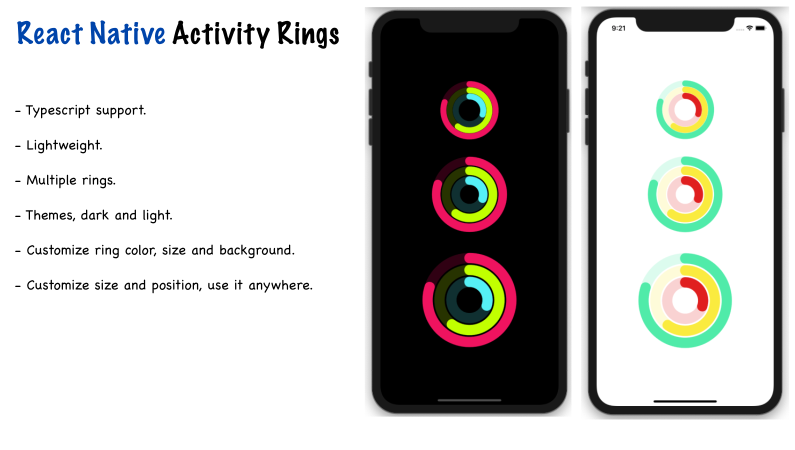
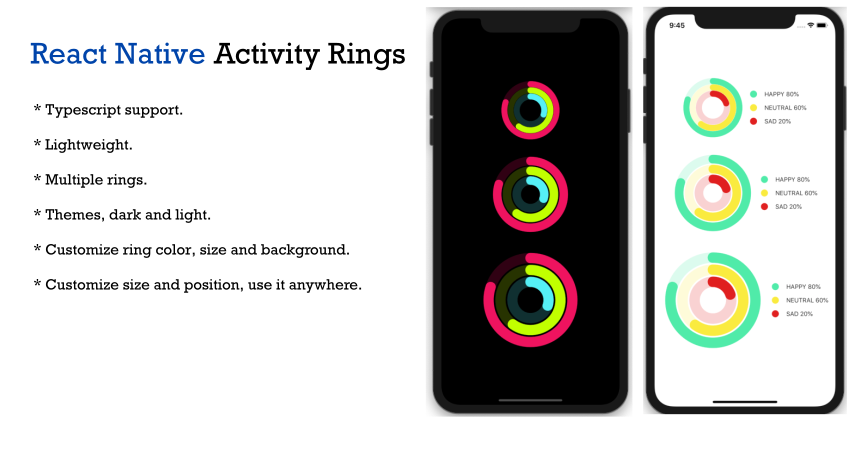
legend support

diff --git a/src/ActivityRings.tsx b/src/ActivityRings.tsx
@@ -1,38 +1,10 @@
 import * as React from "react";
-import { View } from "react-native";
+import {StyleSheet, View} from "react-native";
 import { Svg, G, Path } from "react-native-svg";
+import {Theme, THEMES} from "./Themes";
+import ActivityLegend from "./ActivityRingsLegend";
 
 const Pie = require("paths-js/pie");
-
-enum Colors {
-    White = "#ffffff",
-    Gray = "#323232",
-    // Light Theme
-    Green = "#50eba9",
-    Red = "#E02020",
-    Canary = "#FAEB3F",
-    // Dark Theme
-    Move = "#54f0f7",
-    Exercise = "#c1ff00",
-    Stand = "#ef135f"
-}
-type Theme = "dark" | "light";
-
-interface ThemeColors {
-    LegendColor: string;
-    RingColors: string[];
-}
-
-const THEMES: { dark: ThemeColors, light: ThemeColors } = {
-    dark: {
-        LegendColor: Colors.White,
-        RingColors: [Colors.Move, Colors.Exercise, Colors.Stand]
-    },
-    light: {
-        LegendColor: Colors.Gray,
-        RingColors: [Colors.Red, Colors.Canary, Colors.Green]
-    }
-}
 
 type Pie = { // pie-js does not support TS
     curves: any[];
@@ -40,6 +12,7 @@ type Pie = { // pie-js does not support TS
 
 export type ActivityRingData = {
     value: number;
+    label?: string;
     color?: string;
     backgroundColor?: string;
 }
@@ -53,9 +26,10 @@ export type ActivityRingsConfig = {
 
 
 interface ActivityRingsProps {
-  data: ActivityRingData[];
-  config: ActivityRingsConfig;
-  theme?: Theme;
+    data: ActivityRingData[];
+    config: ActivityRingsConfig;
+    legend?: boolean;
+    theme?: Theme;
 }
 
 const ActivityRingsBase = (props: ActivityRingsProps) => {
@@ -69,7 +43,7 @@ const ActivityRingsBase = (props: ActivityRingsProps) => {
     const createRings = (data: ActivityRingData[], height: number, rad: number, fill?: number[]) => {
         return data.map((ring: ActivityRingData, idx: number) => {
             const pieData = fill || [ring.value, 1 - ring.value];
-            const r = ((height / 2 - rad) / data.length) * idx + rad;
+            const r = ((height / 2 - rad) / data.length) * (data.length - idx - 1) + rad;
             return Pie({
                 r,
                 R: r,
@@ -80,52 +54,68 @@ const ActivityRingsBase = (props: ActivityRingsProps) => {
         });
     };
 
-    const RingsDrawer = (props: { rings: Pie[], alpha: string }) => (
-        <G>
-            {props.rings.map((ring: Pie, idx: number) => {
-                const dataObj = data[idx];
-                if (dataObj.value > 0 && dataObj.value <= 1) {
-                    return (
-                        <Path
-                            key={`r_${idx}`}
-                            strokeLinecap="round"
-                            strokeLinejoin="round"
-                            d={ring.curves[0].sector.path.print()}
-                            stroke={`${dataObj.color || selectedTheme.RingColors[idx]}${props.alpha}`}
-                            strokeWidth={config.ringSize}
-                        />
-                    );
-                }
-            })}
-        </G>
-    );
+    const Rings = (props: { data: Pie[], opacity: boolean }) => {
+        const alpha = props.opacity ? "33" : "FF";
+        const rings = props.data;
+        return (
+            <G>
+                {rings.map((ring: Pie, idx: number) => {
+                    const dataObj = data[idx];
+                    const color = props.opacity ? dataObj.backgroundColor : dataObj.color;
+                    const ringColor = color || selectedTheme.RingColors[idx];
+                    if (dataObj.value > 0 && dataObj.value <= 1) {
+                        return (
+                            <Path
+                                key={`r_${idx}`}
+                                strokeLinecap="round"
+                                strokeLinejoin="round"
+                                d={ring.curves[0].sector.path.print()}
+                                stroke={`${ringColor}${alpha}`}
+                                strokeWidth={config.ringSize}
+                            />
+                        );
+                    }
+                })}
+            </G>);
+    };
 
-    const frontRings = createRings(data, config.height, config.radius);
     const backRings = createRings(data,  config.height, config.radius,[0.999, 0.001]);
+    const frontRings = createRings(data, config.height, config.radius);
 
     return (
-      <View style={containerStyle}>
-        <Svg width={config.width} height={config.height}>
-          <G x={config.width / 2} y={config.height / 2}>
-              <RingsDrawer rings={frontRings} alpha={"FF"} />
-              <RingsDrawer rings={backRings} alpha={"33"} />
-          </G>
-        </Svg>
-      </View>
+        <View style={styles.container}>
+            <View style={containerStyle}>
+                <Svg width={config.width} height={config.height}>
+                    <G x={config.width / 2} y={config.height / 2}>
+                        <Rings data={backRings} opacity={true} />
+                        <Rings data={frontRings} opacity={false} />
+                    </G>
+                </Svg>
+            </View>
+            {props.legend && <ActivityLegend data={props.data} theme={theme} />}
+        </View>
     );
 }
 
 ActivityRingsBase.defaultProps = {
-  data: [],
-  theme: "dark",
-  config: {
-    ringSize: 14,
-    radius: 32,
-    width: 150,
-    height: 150
-  }
+    data: [],
+    theme: "dark",
+    legend: false,
+    config: {
+        ringSize: 14,
+        radius: 32,
+        width: 150,
+        height: 150
+    }
 };
 
-const ActivityRings = React.memo(ActivityRingsBase);
+const styles = StyleSheet.create({
+    container: {
+        flexDirection: "row",
+        alignItems: "center",
+        justifyContent: "center"
+    }
+});
 
+const ActivityRings = React.memo(ActivityRingsBase);
 export default ActivityRings;

diff --git a/src/ActivityRingsLegend.tsx b/src/ActivityRingsLegend.tsx
@@ -1,0 +1,52 @@
+import * as React from "react";
+import { StyleSheet, Text, View } from 'react-native';
+import {Theme, THEMES} from "./Themes";
+import {ActivityRingData} from "./ActivityRings";
+
+interface ActivityLegendsProps {
+    data: ActivityRingData[];
+    theme?: Theme;
+}
+
+const ActivityLegendBase = (props: ActivityLegendsProps) => {
+    const {data, theme} = props;
+    const selectedTheme = THEMES[theme || "dark"];
+    const textStyle = {...styles.text, color: selectedTheme.LegendColor };
+    return (
+        <View style={styles.container}>
+            {data.map((ring: ActivityRingData, idx: number) => {
+                const bulletColor = ring.color || selectedTheme.RingColors[idx];
+                const bulletStyle = {...styles.bullets, backgroundColor: bulletColor};
+                return (
+                    <View style={styles.row} key={`l_${idx}`}>
+                        <View style={bulletStyle}></View>
+                        <Text style={textStyle}>{ring.label} {ring.value * 100}%</Text>
+                    </View>
+                )
+            })}
+        </View>
+    );
+}
+
+const styles = StyleSheet.create({
+    container: {
+        marginLeft: 10
+    },
+    row: {
+        display: "flex",
+        flexDirection: "row",
+        alignItems: "center",
+    },
+    bullets: {
+        width: 16,
+        height: 16,
+        borderRadius: 8,
+        marginRight: 10
+    },
+    text: {
+        padding: 7
+    }
+});
+
+const ActivityLegend = React.memo(ActivityLegendBase);
+export default ActivityLegend;

diff --git a/src/Themes.ts b/src/Themes.ts
@@ -1,0 +1,29 @@
+export enum Colors {
+    White = "#ffffff",
+    Gray = "#323232",
+    // Light Theme
+    Green = "#50eba9",
+    Red = "#E02020",
+    Canary = "#FAEB3F",
+    // Dark Theme
+    Move = "#54f0f7",
+    Exercise = "#c1ff00",
+    Stand = "#ef135f"
+}
+export type Theme = "dark" | "light";
+
+export interface ThemeColors {
+    LegendColor: string;
+    RingColors: string[];
+}
+
+export const THEMES: { dark: ThemeColors, light: ThemeColors } = {
+    dark: {
+        LegendColor: Colors.White,
+        RingColors: [Colors.Stand, Colors.Exercise, Colors.Move]
+    },
+    light: {
+        LegendColor: Colors.Gray,
+        RingColors: [Colors.Green, Colors.Canary, Colors.Red]
+    }
+}

diff --git a/README.md b/README.md
@@ -3,7 +3,7 @@
 
 ***Activity Rings is also the perfect Progress Chart for your project.***
 
-This library provides Ring visualization of data and can be used alongside with the ActivityRingsLegend component for chart representation.
+This library provides Ring visualization of data, and you can also enable legends for chart representation.
 
 ---  
 
@@ -48,14 +48,16 @@ Define an array of objects with the data for each ring:
 ```typescript
 const activityData: ActivityRingData[] = [
   {
-    value: 0.3, // ring will use color from theme
+    value: 0.8, // ring will use color from theme
   },
   {
+    label: "ACTIVITY",
     value: 0.6,
     color: "#cb5f18",
   },
   {
-    value: 0.8,
+    label: "RINGS",
+    value: 0.2,
     color: "#86040f",
     backgroundColor: "#cccccc"
   }
@@ -65,6 +67,7 @@ const activityData: ActivityRingData[] = [
 | Property         | Type   | Description                                                                                                                                           |
 | ---------------- | ------ | ----------------------------------------------------------------------------------------------------------------------------------------------------- |
 | value            | Number | The value used as percentage to render for each ring. value of 1 represents 100% so this means 0.2 represents 20%. Values > 1 will not be considered. |
+| label?           | string | Label will be used when enabling legend flag alongside the percentage value. |
 | color?           | string | Hex representation of the color code for the ring. Only compatible with hex values (for now).                                                         |
 | backgroundColor? | string | Hex representation of the background color code for the ring. Only compatible with hex values (for now). The background color will get 30% opacity.   |
 
@@ -89,10 +92,19 @@ const activityConfig: ActivityRingsConfig = {
 | radius   | Number | Defines the radius of the complete pie.    |
 | ringSize | Number | Defines the size of each ring in px.       |
 
+## Legend
+Legend is disabled by default.
+
+Enable legend on the right side of the rings, this is ideal for chart representation.
+Notice that legend will use the *label* value you defined for every ring inside the data object. 
+
+```typescript
+<ActivityRings legend={true} data={activityData} config={activityConfig} />
+```
 
 ## Themes
 
-By default this components comes with `Dark` theme and will work best of course with dark backgrounds. But the library also provides a theme for light backgrounds and yes it's pretty obvious, it's called `Light` theme.
+By default this component comes with `Dark` theme and will work best of course with dark backgrounds. The library also provides a theme for light backgrounds and yes it's pretty obviously named `Light` theme.
 
 ```typescript
 <ActivityRings data={activityData} config={activityConfig} />
@@ -105,6 +117,6 @@ By default this components comes with `Dark` theme and will work best of course 
 ```
 
 
-## Coming soon
+## Not yet supported
 
-Visualize more than 100 percentage on a ring is a valuable feature for specific use cases like the Apple Watch. Stay tuned!
+1. Visualize more than 100 percentage on a ring like the Apple Watch does.
